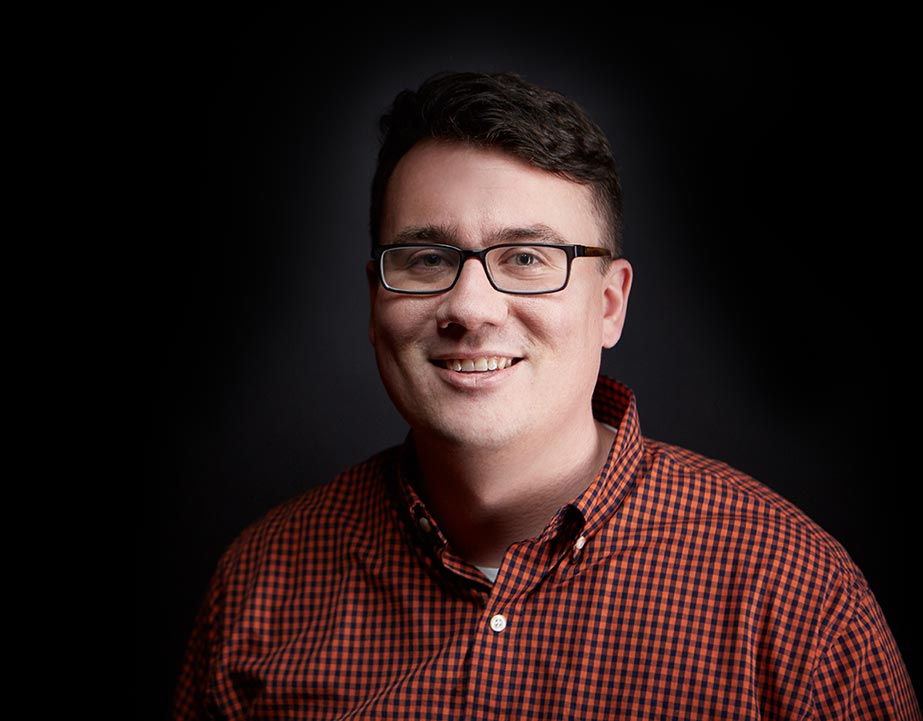
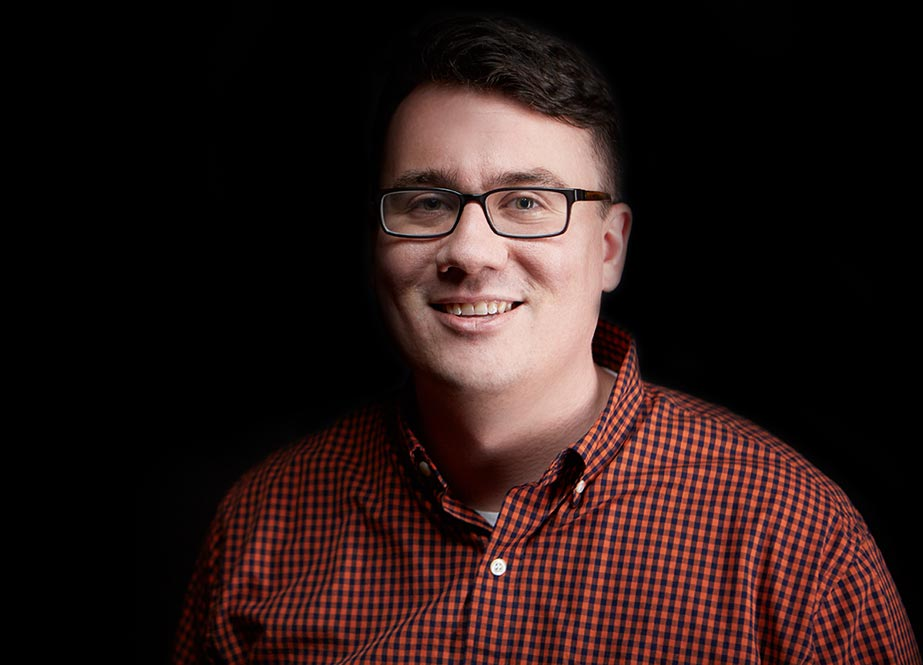
fix hero color and spacing and footer spacing on mobile

Changed region(s): [[0.2124, 0.0602, 1.0, 0.9925], [0.546, 0.0301, 0.5764, 0.0602]]

diff --git a/src/_includes/style.css b/src/_includes/style.css
@@ -8,7 +8,7 @@ html {
   --gray-600: #757575;
   --gray-700: #616161;
   --gray-800: #424242;
-  --gray-900: #212121;
+  --gray-900: #26242c;
   --black: #111;
   --site-width: 700px;
   font-family: 'Inter', sans-serif;
@@ -276,8 +276,8 @@ a.button {
   justify-content: flex-start;
   background-image: radial-gradient(
     ellipse at bottom,
-    #26242c 0%,
-    #000000 100%
+    #26242c -50%,
+    #000000 80%
   );
 }
 
@@ -287,12 +287,10 @@ a.button {
 }
 
 .hero__copy {
-  position: absolute;
-  bottom: 0;
-  left: 0;
-  right: 0;
   padding: inherit;
+  padding-bottom: 2rem;
 }
+
 .hero__heading {
   margin: 8rem 0 0;
   font-weight: 900;
@@ -300,7 +298,6 @@ a.button {
 }
 
 .hero__blurb {
-  margin-bottom: 1rem;
   font-size: 4rem;
   font-weight: 900;
   font-size: clamp(1rem, 4vw, 3rem);
@@ -320,6 +317,10 @@ a.button {
 }
 
 .hero--home .hero__copy {
+  position: absolute;
+  bottom: 0;
+  left: 0;
+  right: 0;
   background: linear-gradient(transparent, black);
 }
 
@@ -330,6 +331,8 @@ a.button {
   align-items: flex-end;
   text-align: right;
   flex-direction: column-reverse;
+  padding-right: 1rem;
+  padding-bottom: 1rem;
 }
 
 .footer__content {
@@ -464,7 +467,6 @@ a.button {
     align-self: center;
     position: relative;
     background: transparent;
-    padding: 0;
   }
   .page-body {
     padding-right: 25%;
@@ -473,6 +475,7 @@ a.button {
   .footer {
     align-items: flex-end;
     flex-direction: row;
+    padding: 0;
   }
 
   .footer .nav {
